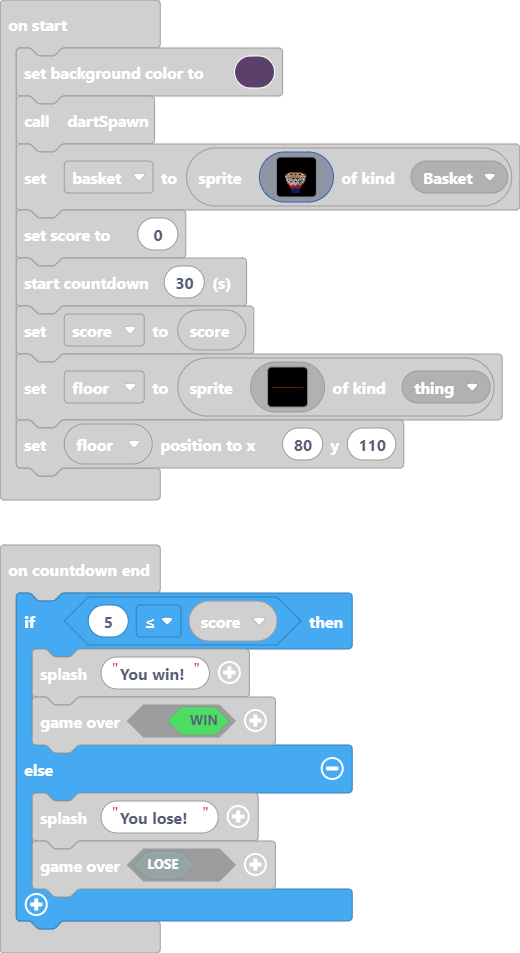
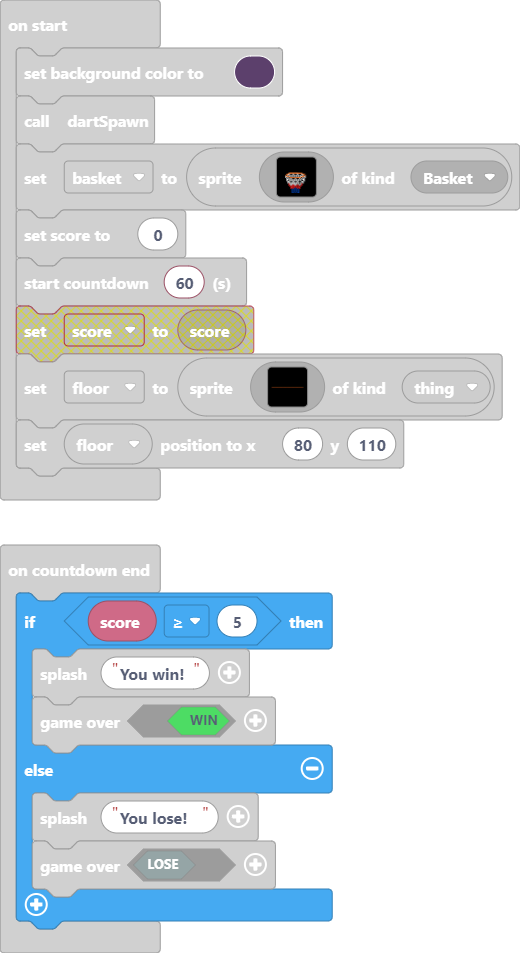
Update main.blocks, main.ts

diff --git a/main.ts b/main.ts
@@ -6,7 +6,7 @@ controller.A.onEvent(ControllerButtonEvent.Pressed, function () {
     myDart.throwDart()
 })
 info.onCountdownEnd(function () {
-    if (5 <= score) {
+    if (info.score() >= 5) {
         game.splash("You win!")
         game.over(true)
     } else {
@@ -48,7 +48,6 @@ sprites.onOverlap(SpriteKind.Projectile, SpriteKind.thing, function (sprite, oth
     dartSpawn()
 })
 let myDart: Dart = null
-let score = 0
 scene.setBackgroundColor(12)
 dartSpawn()
 let basket = sprites.create(img`
@@ -84,8 +83,7 @@ let basket = sprites.create(img`
     ......88.8.88......
     `, SpriteKind.Basket)
 info.setScore(0)
-info.startCountdown(30)
-score = info.score()
+info.startCountdown(60)
 let floor = sprites.create(img`
     ........................................................................................................................................................................................................
     ........................................................................................................................................................................................................
